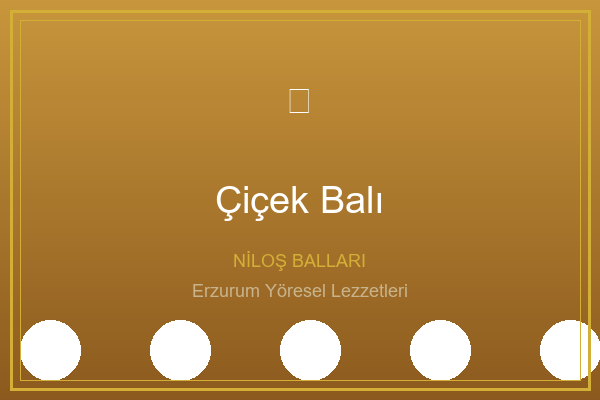
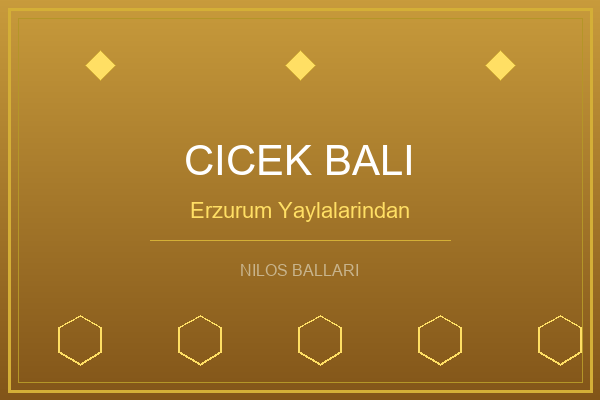
Fix broken images: remove emojis, clean professional gold cards

diff --git a/create_images.py b/create_images.py
@@ -1,64 +1,74 @@
 from PIL import Image, ImageDraw, ImageFont
-import os
+import os, math
 
 os.makedirs("images", exist_ok=True)
 
-# Product data with emoji and colors
 products = [
-    {"file": "kaset_bal.png",     "title": "Kaset Bal",         "emoji": "🍯", "bg1": (180, 130, 50),  "bg2": (120, 80, 20)},
-    {"file": "cicek_bali.png",    "title": "Çiçek Balı",        "emoji": "🌸", "bg1": (200, 150, 60),  "bg2": (140, 90, 30)},
-    {"file": "karakovan.png",     "title": "Karakovan Balı",    "emoji": "🐝", "bg1": (160, 110, 40),  "bg2": (100, 70, 15)},
-    {"file": "nilay_altin.png",   "title": "Altın Kovan Bal",   "emoji": "✨", "bg1": (210, 170, 70),  "bg2": (150, 110, 30)},
-    {"file": "dut_pekmezi.png",   "title": "Dut Pekmezi",       "emoji": "🫐", "bg1": (100, 50, 30),   "bg2": (60, 20, 10)},
-    {"file": "uzum_pekmezi.png",  "title": "Üzüm Pekmezi",     "emoji": "🍇", "bg1": (110, 40, 50),   "bg2": (70, 15, 25)},
-    {"file": "cevizli_sucuk.png", "title": "Cevizli Sucuk",     "emoji": "🥜", "bg1": (130, 80, 40),   "bg2": (80, 45, 15)},
-    {"file": "pestil_bastik.png", "title": "Pestil - Bastık",   "emoji": "🍫", "bg1": (140, 70, 35),   "bg2": (90, 40, 10)},
-    {"file": "yayla_tereyagi.png","title": "Yayla Tereyağı",    "emoji": "🧈", "bg1": (220, 190, 100), "bg2": (180, 150, 60)},
+    {"file": "kaset_bal.png",     "title": "KASET BAL",          "sub": "Seker Hastalarina Uygun", "bg1": (180, 130, 50),  "bg2": (100, 65, 15)},
+    {"file": "cicek_bali.png",    "title": "CICEK BALI",         "sub": "Erzurum Yaylalarindan",   "bg1": (200, 155, 60),  "bg2": (130, 85, 25)},
+    {"file": "karakovan.png",     "title": "KARAKOVAN BALI",     "sub": "Geleneksel Uretim",       "bg1": (145, 100, 35),  "bg2": (80, 50, 10)},
+    {"file": "nilay_altin.png",   "title": "ALTIN KOVAN BAL",    "sub": "Premium Seri",            "bg1": (210, 175, 70),  "bg2": (140, 105, 25)},
+    {"file": "dut_pekmezi.png",   "title": "DUT PEKMEZI",        "sub": "Sifa Deposu",             "bg1": (100, 50, 30),   "bg2": (50, 20, 8)},
+    {"file": "uzum_pekmezi.png",  "title": "UZUM PEKMEZI",       "sub": "Geleneksel Tarif",        "bg1": (110, 40, 55),   "bg2": (60, 15, 25)},
+    {"file": "cevizli_sucuk.png", "title": "CEVIZLI SUCUK",      "sub": "Bol Cevizli",             "bg1": (130, 80, 40),   "bg2": (70, 40, 12)},
+    {"file": "pestil_bastik.png", "title": "PESTIL - BASTIK",    "sub": "Dogal Enerji",            "bg1": (140, 75, 35),   "bg2": (85, 35, 8)},
+    {"file": "yayla_tereyagi.png","title": "YAYLA TEREYAGI",     "sub": "Koy Tereyagi",            "bg1": (220, 195, 100), "bg2": (170, 140, 50)},
 ]
+
+try:
+    font_title = ImageFont.truetype("arial.ttf", 42)
+    font_sub = ImageFont.truetype("arial.ttf", 22)
+    font_brand = ImageFont.truetype("arial.ttf", 16)
+except:
+    font_title = ImageFont.load_default()
+    font_sub = ImageFont.load_default()
+    font_brand = ImageFont.load_default()
 
 for p in products:
     W, H = 600, 400
     img = Image.new("RGB", (W, H))
     draw = ImageDraw.Draw(img)
     
-    # Gradient background
+    # Gradient
     for y in range(H):
         r = int(p["bg1"][0] + (p["bg2"][0] - p["bg1"][0]) * y / H)
         g = int(p["bg1"][1] + (p["bg2"][1] - p["bg1"][1]) * y / H)
         b = int(p["bg1"][2] + (p["bg2"][2] - p["bg1"][2]) * y / H)
         draw.line([(0, y), (W, y)], fill=(r, g, b))
     
-    # Decorative circles
-    for i in range(5):
-        x = 50 + i * 130
-        draw.ellipse([x-30, 320, x+30, 380], fill=(255, 255, 255, 30), outline=(255, 255, 255))
+    # Gold double border
+    draw.rectangle([8, 8, W-8, H-8], outline=(212, 175, 55), width=3)
+    draw.rectangle([18, 18, W-18, H-18], outline=(180, 150, 40), width=1)
     
-    # Gold border
-    draw.rectangle([10, 10, W-10, H-10], outline=(212, 175, 55), width=3)
-    draw.rectangle([20, 20, W-20, H-20], outline=(212, 175, 55, 128), width=1)
+    # Diamond shapes as decoration
+    for cx in [100, 300, 500]:
+        pts = [(cx, 50), (cx+15, 65), (cx, 80), (cx-15, 65)]
+        draw.polygon(pts, fill=(255, 223, 100), outline=(212, 175, 55))
     
-    # Title text
-    try:
-        font_large = ImageFont.truetype("arial.ttf", 38)
-        font_small = ImageFont.truetype("arial.ttf", 18)
-    except:
-        font_large = ImageFont.load_default()
-        font_small = ImageFont.load_default()
+    # Honeycomb hexagons as decoration at bottom
+    for cx in [80, 200, 320, 440, 560]:
+        hex_pts = []
+        for a in range(6):
+            angle = math.pi / 3 * a + math.pi / 6
+            px = cx + 25 * math.cos(angle)
+            py = 340 + 25 * math.sin(angle)
+            hex_pts.append((px, py))
+        draw.polygon(hex_pts, fill=None, outline=(255, 223, 100, 80), width=2)
     
-    # Draw emoji (large)
-    draw.text((W//2, 100), p["emoji"], fill=(255, 255, 255), font=font_large, anchor="mm")
+    # Title
+    draw.text((W//2, 160), p["title"], fill="white", font=font_title, anchor="mm")
     
-    # Draw title
-    draw.text((W//2, 200), p["title"], fill=(255, 255, 255), font=font_large, anchor="mm")
+    # Subtitle
+    draw.text((W//2, 210), p["sub"], fill=(255, 223, 100), font=font_sub, anchor="mm")
     
-    # Draw "Niloş Balları" brand
-    draw.text((W//2, 260), "NİLOŞ BALLARI", fill=(212, 175, 55), font=font_small, anchor="mm")
+    # Brand line
+    draw.text((W//2, 270), "NILOS BALLARI", fill=(200, 180, 140), font=font_brand, anchor="mm")
     
-    # Draw "Erzurum Yöresi" tag
-    draw.text((W//2, 290), "Erzurum Yöresel Lezzetleri", fill=(200, 180, 140), font=font_small, anchor="mm")
+    # Horizontal gold line
+    draw.line([(150, 240), (450, 240)], fill=(212, 175, 55), width=1)
     
     img.save(os.path.join("images", p["file"]))
-    print(f"OK {p['file']} created")
+    print(f"OK {p['file']}")
 
 # Logo
 W, H = 400, 400
@@ -69,30 +79,29 @@ draw = ImageDraw.Draw(img)
 draw.ellipse([20, 20, 380, 380], fill=(212, 175, 55), outline=(180, 140, 30), width=4)
 draw.ellipse([40, 40, 360, 360], fill=(255, 223, 115), outline=(212, 175, 55), width=2)
 
-# Honeycomb pattern (hexagons)
-import math
-cx, cy = 200, 160
-hex_size = 30
-for dx, dy in [(0,0), (52,30), (-52,30), (52,-30), (-52,-30), (0,60), (0,-60)]:
+# Honeycomb pattern
+cx, cy = 200, 155
+hex_size = 32
+for dx, dy in [(0,0), (56,32), (-56,32), (56,-32), (-56,-32), (0,64), (0,-64)]:
     pts = []
     for a in range(6):
         angle = math.pi / 3 * a + math.pi / 6
         px = cx + dx + hex_size * math.cos(angle)
         py = cy + dy + hex_size * math.sin(angle)
         pts.append((px, py))
-    draw.polygon(pts, fill=(200, 160, 40), outline=(180, 140, 20), width=2)
+    draw.polygon(pts, fill=(200, 160, 40), outline=(170, 130, 20), width=2)
 
 try:
-    font_logo = ImageFont.truetype("arial.ttf", 24)
-    font_brand = ImageFont.truetype("arial.ttf", 16)
+    font_logo = ImageFont.truetype("arial.ttf", 28)
+    font_logo2 = ImageFont.truetype("arial.ttf", 18)
 except:
     font_logo = ImageFont.load_default()
-    font_brand = ImageFont.load_default()
+    font_logo2 = ImageFont.load_default()
 
-draw.text((200, 290), "NİLOŞ", fill=(80, 50, 15), font=font_logo, anchor="mm")
-draw.text((200, 320), "BALLARI", fill=(80, 50, 15), font=font_logo, anchor="mm")
-draw.text((200, 355), "Erzurum Yöresi", fill=(140, 100, 40), font=font_brand, anchor="mm")
+draw.text((200, 285), "NILOS", fill=(80, 50, 15), font=font_logo, anchor="mm")
+draw.text((200, 318), "BALLARI", fill=(80, 50, 15), font=font_logo, anchor="mm")
+draw.text((200, 355), "Erzurum Yoresi", fill=(140, 100, 40), font=font_logo2, anchor="mm")
 
 img.save("logo.png")
-print("OK logo.png created")
-print("All images done!")
+print("OK logo.png")
+print("DONE!")
